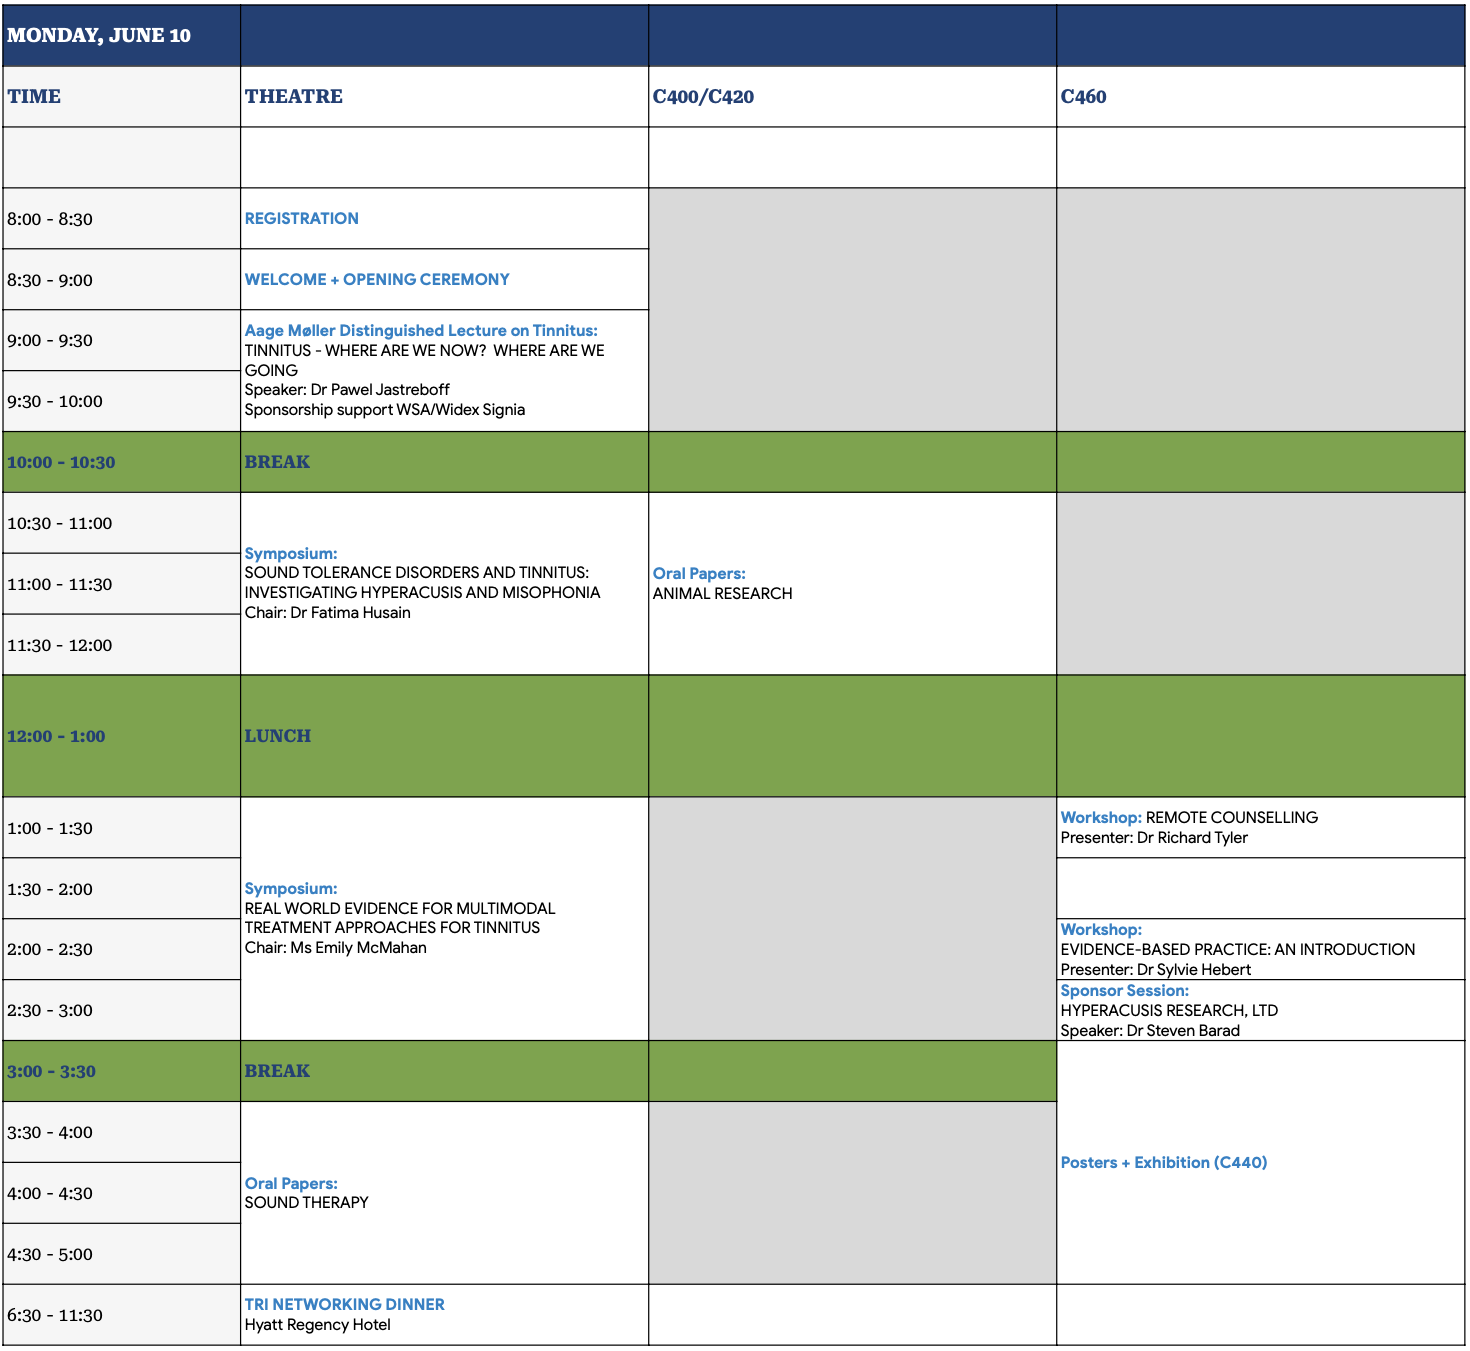
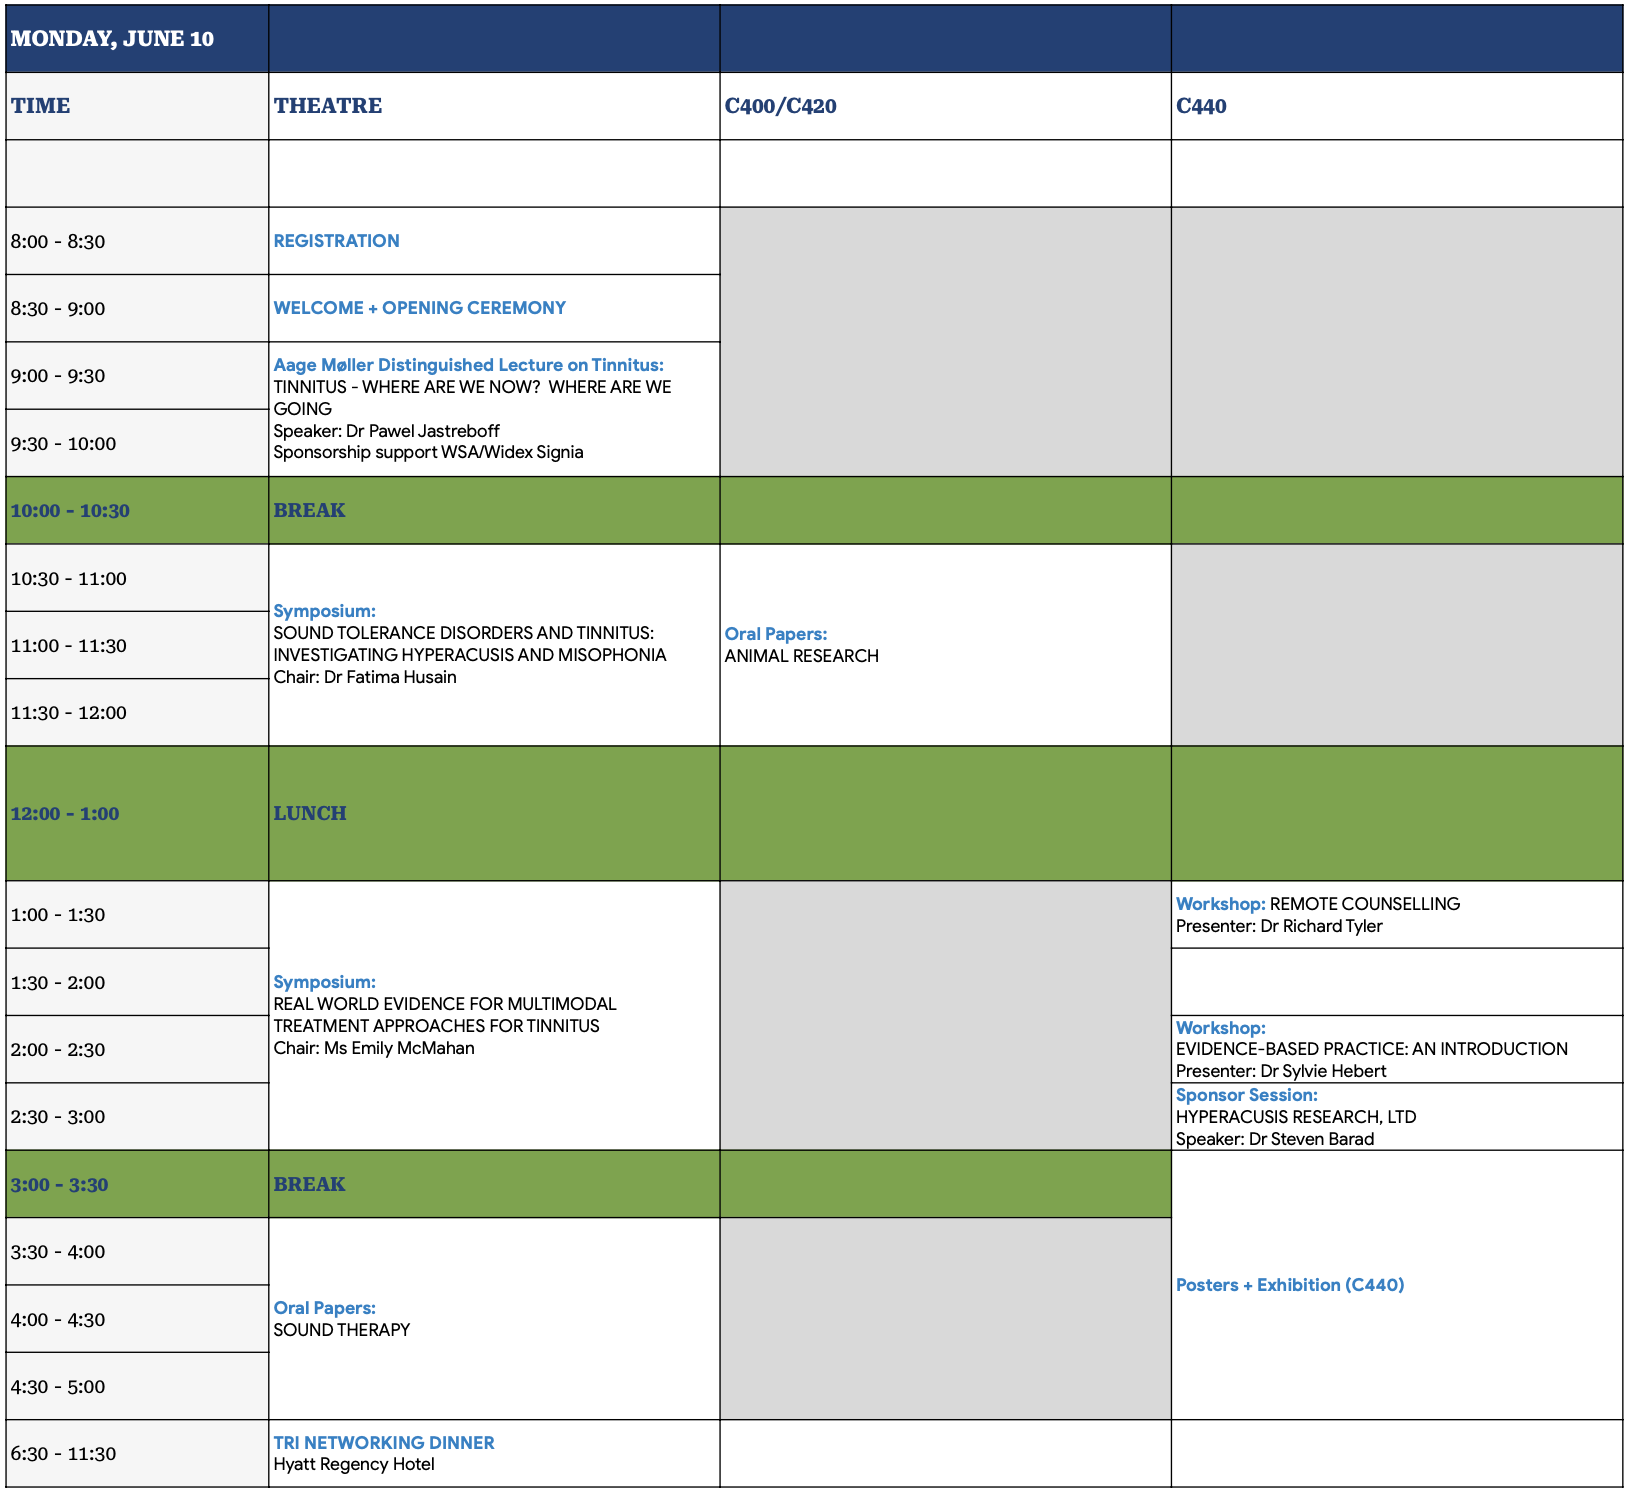
April 28th 2024: - Changed schedules for 10th, 11th and 12th. - Added new presenters for 10th and 11th!

diff --git a/src/AbstractPages/MondayJune10th/MondayJune10thPosters.tsx b/src/AbstractPages/MondayJune10th/MondayJune10thPosters.tsx
@@ -12,40 +12,22 @@ const MondayJune10thPosters = () => {
             experience, for a certain duration, is a prerequisite for tinnitus 
           </li>
           <li>
-            Ho Yun Lee, Seung-Ho Shin, Oak-Sung Choo, Jae Yong Byun, Jae Ho
-            Chung, Analysis of Loudness Discomfort Level Tests in Tinnitus
-            Patients
+            Ho Yun Lee, Seung-Ho Shin, Exploring the Origins of Decreased Sound
+            Tolerance in Tinnitus Patients
           </li>
           <li>
-            Han Lv, Qian Chen, Zuozhen Zhang, Zhaodi Wang, Shusheng Gong,
-            Junzhong Ji, Zhenchang Wang, Jinduo Liu, Functional-guided
-            reinforcement learning effective connectivity indicates
-            effectiveness of sound therapy in tinnitus patients
+            Sang Hoon Kim, Association between tinnitus and inflammatory bowel
+            disease: A national cohort study 
           </li>
           <li>
-            Dave Korotkov, Tinnitus Distress and the Steeling/Sensitization
-            Hypotheses: A Secondary
+            Jiwon Kwak, Soo Jeong Choi, Jiwon Chang, Gi Jung Im, Euyhyun Park,
+            Is Zinc Deficiency a Risk Factor for Tinnitus? : An Analysis from
+            Chronic Idiopathic Tinnitus Patients with Normal Hearing
           </li>
           <li>
-            Andréia Aparecida de Azevedo, Ricardo Rodrigues Figueiredo, Eliana
-            Ferreira Vilela, Jeanne Oiticica, correlation between tinnitus
-            severity and the big five personality traits
-          </li>
-          <li>
-            Min Young Kwak, Yong Tae Cho, Yong-Hwi An, Hyun Joon Shim, Relation
-            of Sound Level Tolerance to Tinnitus in Human: A Comparative
-            Analysis of Unilateral, Bilateral, and Control Groups
-          </li>
-          <li>
-            Cosima F. Lukas, Paul Wilknitz, Prof. Dr. Orlando Guntinas-Lichius,
-            Dr. Daniela Ivansic, Prof. Dr. ChristianDobel, Prof. Dr. Manuela
-            Nowotny, Occupational noise exposure: Early audiological and
-            physiological signs of noise- induced hearing loss and mental health
-          </li>
-          <li>
-            Lieber Po-Hung Li, Cheng-Ta Li, Jen-Chuen Hsieh, Steady-state
-            auditory evoked fields reflect long-term effects of repetitive
-            transcranial magnetic stimulation in tinnitus
+            Jae Sang Han, Minho Lee, Hyeon-Chun Park, So Young Park, Yeun-Jun
+            Chung, Shi Nae Park, Identification of SNPs Associated with Chronic
+            Sensorineural Tinnitus in the Korean Population
           </li>
           <li>
             Sneha Uttakalika 1 , Manya Fangaria , Ashwini Tidole 2 ,
@@ -53,10 +35,31 @@ const MondayJune10thPosters = () => {
             somatosensory tinnitus in individuals with tinnitus
           </li>
           <li>
-            Luciana Lozza de Moraes Marchiori, Licia Sayuri Tanaka, Daiane de
-            Almeida Soares Ciquinato, Glória de Moraes Marchiori, Braulio
-            Henrique Magnani Branco, Analysis between subjective sleep quality
-            and level of intensity of the tinnitus in people post COVID-19
+            Sneha Uttakalika, Diya ES Dinesh, Abhishek Jain, Kajal Bhatiwal,
+            Suman Penwal, Prevalence of hyperacusis and misophonia among
+            individuals with tinnitus
+          </li>
+          <li>
+            June Choi, Hong Jin Kim, Ye Hwan Lee, Young Han Chung, Kang Hyeon
+            Lim, Sang Yeop Kim, Yong Jun Jeong, Analysis of auditory brain stem
+            response and otoacoustic emission in unilateral tinnitus patients
+            with normal hearing
+          </li>
+          <li>
+            Fournier, P., Valentin, O., Z., Walsh, Z., Zendel, B.R. &amp;
+            Lehmann, A., Association between cannabis and tinnitus: could loud
+            music listening under cannabis influence be the missing link?
+          </li>
+          <li>
+            Cosima F. Lukas, Paul Wilknitz, Prof. Dr. Orlando Guntinas-Lichius,
+            Dr. Daniela Ivansic, Prof. Dr. Christian Dobel, Prof. Dr. Manuela
+            Nowotny, Occupational noise exposure: Early audiological and
+            physiological signs of noise- induced hearing loss and mental health
+          </li>
+          <li>
+            Zahra Jafari, David Baguley, Bryan E. Kolb, and Majid H. Mohajeran,
+            A systematic review and meta-analysis of extended high-frequency
+            hearing thresholds in tinnitus with a normal audiogram
           </li>
           <li>
             Kritika Nayyar, Sweety Chauhan, Neha Surkund, Swaham Mohanty, Kajal
@@ -65,13 +68,9 @@ const MondayJune10thPosters = () => {
             India
           </li>
           <li>
-            Jae Sang Han, Minho Lee, Hyeon-Chun Park, So Young Park, Yeun-Jun
-            Chung, Shi Nae ParL, Identification of SNPs Associated with Chronic
-            Sensorineural Tinnitus in the Korean Population
-          </li>
-          <li>
-            Kyu-Yup Lee, Da-Jung Jung,Sang-Heun Lee, Study on protective effect
-            of novel chemical compound against acquired hearing loss
+            Claudia Barros Coelho, Sodriane D&#39;Avila, Sabrina Magalhães,
+            Richard Tyler, Percutaneous Electroneurostimulation (PENS) as a
+            Novel Treatment for TTTS: Insights from a Focused Two-Case Study
           </li>
         </ul>
       </div>

diff --git a/src/AbstractPages/TuesdayJune11th/TuesdayPosters.tsx b/src/AbstractPages/TuesdayJune11th/TuesdayPosters.tsx
@@ -7,14 +7,24 @@ const TuesdayPosters = () => {
       <div className="mj10-list">
         <ul className="mj10-inner-list">
           <li>
-            Ho Yun Lee, Seung-Ho Shinm, Exploring the Origins of Decreased Sound
-            Tolerance in Tinnitus Patients
+            Ho Yun Lee, Seung-Ho Shin, Oak-Sung Choo, Jae Yong Byun, Jae Ho
+            Chung, Analysis of Loudness Discomfort Level Tests in Tinnitus
+            Patients
           </li>
           <li>
-            June Choi, Hong Jin Kim, Ye Hwan Lee, Young Han Chung, Kang Hyeon
-            Lim, Sang Yeop Kim, Yong Jun Jeong, Analysis of auditory brain stem
-            response and otoacoustic emission in unilateral tinnitus patients
-            with normal hearing
+            Han Lv, Qian Chen, Zuozhen Zhang, Zhaodi Wang, Shusheng Gong,
+            Junzhong Ji, Zhenchang Wang, Jinduo Liu, Functional-guided
+            reinforcement learning effective connectivity indicates
+            effectiveness of sound therapy in tinnitus patients
+          </li>
+          <li>
+            Dave Korotkov, Tinnitus Distress and the Steeling/Sensitization
+            Hypotheses: A Secondary
+          </li>
+          <li>
+            Andréia Aparecida de Azevedo, Ricardo Rodrigues Figueiredo, Eliana
+            Ferreira Vilela, Jeanne Oiticica, correlation between tinnitus
+            severity and the big five personality traits
           </li>
           <li>
             Sung Il Cho, Mohammad Mokhatrish, Wonyong Baek, Gi-Sung Nam,
@@ -22,14 +32,14 @@ const TuesdayPosters = () => {
             sensorineural hearing loss and acute tinnitus
           </li>
           <li>
+            Min Young Kwak, Yong Tae Cho, Yong-Hwi An, Hyun Joon Shim, Relation
+            of Sound Level Tolerance to Tinnitus in Human: A Comparative
+            Analysis of Unilateral, Bilateral, and Control Groups
+          </li>
+          <li>
             Bourez, P.H. Vallet, Guillaume, T., Fournier, P., Improving
             audiology student training by clinical simulation of tinnitus: a
             glimpse of tinnitus lived experience
-          </li>
-          <li>
-            Fournier, P., Lessard-Dostie, H., Bigras, J., McDonald, T., Noreña,
-            A.J., Lagacé, J., Hyperacusis and associated symptoms among
-            conference interpreters
           </li>
           <li>
             Denise Fuchten, Kelly K.S. Assouly, Inge Stegeman, Adriana L. Smit,
@@ -37,13 +47,12 @@ const TuesdayPosters = () => {
             depression questionnaires
           </li>
           <li>
-            Eun Bit Bae1, 2* - Low hearing frequency affecting hearing device
-            use
+            Eun Bit Bae, Low hearing frequency affecting hearing device use
           </li>
           <li>
-            Sneha Uttakalika, Diya ES Dinesh, Abhishek Jain, Kajal Bhatiwal,
-            Suman Penwal, Prevalence of hyperacusis and misophonia among
-            individuals with tinnitus
+            Lieber Po-Hung Li, Cheng-Ta Li, Jen-Chuen Hsieh, Steady-state
+            auditory evoked fields reflect long-term effects of repetitive
+            transcranial magnetic stimulation in tinnitus
           </li>
           <li>
             Glória de Moraes Marchiori, Licia Sayuri Tanaka, Victor Augusto
@@ -52,23 +61,24 @@ const TuesdayPosters = () => {
             symptoms among people post COVID-19
           </li>
           <li>
-            Zahra Jafari, David Baguley, Bryan E. Kolb, and Majid H. Mohajeran,
-            A systematic review and meta-analysis of extended high-frequency
-            hearing thresholds in tinnitus with a normal audiogram
-          </li>
-          <li>
-            Jiwon Kwak, Soo Jeong Choi, Jiwon Chang, Gi Jung Im, Euyhyun Park,
-            Is Zinc Deficiency a Risk Factor for Tinnitus?: An Analysis from
-            Chronic Idiopathic Tinnitus Patients with Normal Hearing
-          </li>
-          <li>
-            Sang Hoon Kim, Association between tinnitus and inflammatory bowel
-            disease: A national cohort study
+            Luciana Lozza de Moraes Marchiori, Licia Sayuri Tanaka, Daiane de
+            Almeida Soares Ciquinato, Glória de Moraes Marchiori, Braulio
+            Henrique Magnani Branco, Analysis between subjective sleep quality
+            and level of intensity of the tinnitus in people post COVID-19
           </li>
           <li>
             Nour Alsabbagh and Phillip E. Gander, The sleeping brain of
             tinnitus: A review of neural and behavioural correlates of sleep in
-            phantom sound perception
+            phantom sound perception.
+          </li>
+          <li>
+            Shi Nae Park, Min Chae Jeon, Chan Mee Lee, Jae Sang Han, Jae Hyng
+            Seo, Clinical Management of Myoclonic Tinnitus for A Cure: From
+            Botox Injection to Surgery
+          </li>
+          <li>
+            Kyu-Yup Lee, Da-Jung Jung,Sang-Heun Lee, Study on protective effect
+            of novel chemical compound against acquired hearing loss
           </li>
         </ul>
       </div>

diff --git a/src/Conference Program/ConferenceDropDownComponents/June12.tsx b/src/Conference Program/ConferenceDropDownComponents/June12.tsx
@@ -80,9 +80,9 @@ const June12 = () => {
       <AbstractDropDown
         title={"MISOPHONIA AND TINNITUS"}
         date={"WEDNESDAY, JUNE 12th"}
-        time={"09:30 - 10:00"}
+        time={"09:00 - 09:30"}
         type={"Workshop:"}
-        location={"(C460)"}
+        location={"(C440)"}
         Component={WednesdayMisophonia}
       />
 
@@ -91,7 +91,7 @@ const June12 = () => {
         date={"WEDNESDAY, JUNE 12th"}
         time={"09:30 - 10:00"}
         type={"Workshop:"}
-        location={"(C460)"}
+        location={"(C440)"}
         Component={June12thSuccessful}
       />
 
@@ -109,7 +109,7 @@ const June12 = () => {
         date={"WEDNESDAY, JUNE 12th"}
         time={"10:30 - 11:00"}
         type={"Sponsorship Session:"}
-        location={"(C460)"}
+        location={"(C440)"}
         Component={June12thOticon}
       />
 
@@ -118,7 +118,7 @@ const June12 = () => {
         date={"WEDNESDAY, JUNE 12th"}
         time={"11:00 - 11:30"}
         type={"Sponsorship Session:"}
-        location={"(C460)"}
+        location={"(C440)"}
         Component={June12thLenire}
       />
 
@@ -129,7 +129,7 @@ const June12 = () => {
         date={"WEDNESDAY, JUNE 12th"}
         time={"11:30 - 12:00"}
         type={"Sponsorship Session:"}
-        location={"(C460)"}
+        location={"(C440)"}
         Component={June12thATA}
       />
 

diff --git a/src/Conference Program/ConferenceDropDownComponents/June10.tsx b/src/Conference Program/ConferenceDropDownComponents/June10.tsx
@@ -95,7 +95,7 @@ const June10 = () => {
         date={"MONDAY, JUNE 10th"}
         time={"01:00 - 01:30"}
         type={"Workshop:"}
-        location={"(C460)"}
+        location={"(C440)"}
         Component={MondayJune10thRemote}
       />
 
@@ -104,7 +104,7 @@ const June10 = () => {
         date={"MONDAY, JUNE 10th"}
         time={"02:00 - 02:30"}
         type={"Workshop:"}
-        location={"(C460)"}
+        location={"(C440)"}
         Component={TuesdayJune11thEvidenceBased}
       />
 
@@ -113,7 +113,7 @@ const June10 = () => {
         date={"MONDAY, JUNE 10th"}
         time={"02:30 - 03:00"}
         type={"Sponsor Session:"}
-        location={"(C460)"}
+        location={"(C440)"}
         Component={MondayJune10thHyeracusis}
       />
 
@@ -129,7 +129,7 @@ const June10 = () => {
       <AbstractDropDown
         title={""}
         date={"MONDAY, JUNE 10th"}
-        time={"03:00 - 05:00 "}
+        time={"03:30 - 05:00 "}
         type={"Posters + Exhibition:"}
         location={"(POSTER HALL)"}
         Component={MondayJune10thPosters}

diff --git a/src/Conference Program/ConferenceDropDownComponents/June11.tsx b/src/Conference Program/ConferenceDropDownComponents/June11.tsx
@@ -72,7 +72,7 @@ const June11 = () => {
         date={"TUESDAY, JUNE 11th"}
         time={"09:00 - 10:00"}
         type={"Oral Papers:"}
-        location={"(THEATRE)"}
+        location={"(C400/C420)"}
         Component={TuesdayBioMarkers}
       />
       <AbstractDropDown
@@ -122,9 +122,9 @@ const June11 = () => {
           "CONTRIBUTION OF MIDDLE EAR AND MULTIMODAL PLASTICITY TO TINNITUS AND HYPERACUSIS."
         }
         date={"TUESDAY, JUNE 11th"}
-        time={"02:00 - 03:00"}
+        time={"02:30 - 03:00"}
         type={"Workshop:"}
-        location={"(C460)"}
+        location={"(C440)"}
         Component={TuesdayContribution}
       />
       <AbstractDropDown
@@ -138,7 +138,7 @@ const June11 = () => {
       <AbstractDropDown
         title={""}
         date={"TUESDAY, JUNE 11th"}
-        time={"03:00 - 05:00"}
+        time={"03:30 - 05:00"}
         type={"Posters + Exhibition:"}
         location={"(POSTER HALL)"}
         Component={TuesdayPosters}

diff --git a/src/AbstractPages/MondayJune10th/MondayJune10th.tsx b/src/AbstractPages/MondayJune10th/MondayJune10th.tsx
@@ -33,7 +33,11 @@ const MondayJune10th = () => {
             neural mechanisms of noise-induced tinnitus and hyperacusis studied
             in guinea pigs (voir courriel)
           </li>
-          <li>Zach Rosenthal, Duke University, United States</li>
+          <li>
+            Fournier, P., Lessard-Dostie, H., Bigras, J., McDonald, T., Noreña,
+            A.J., Lagacé, J., Hyperacusis and associated symptoms among
+            conference interpreters
+          </li>
         </ol>
       </div>
 

diff --git a/src/AbstractPages/TuesdayJune11th/TuesdayPulsatile.tsx b/src/AbstractPages/TuesdayJune11th/TuesdayPulsatile.tsx
@@ -29,11 +29,6 @@ const TuesdayPulsatile = () => {
             Dave Korotkov - Living with Pulsatile Tinnitus: A Self-Narrative
             Using McAdam’s Levels of Personality Model
           </li>
-          <li>
-            Shi Nae Park, Min Chae Jeon, Chan Mee Lee, Jae Sang Han, Jae Hyng
-            Seo, Clinical Management of Myoclonic Tinnitus for A Cure: From
-            Botox Injection to Surgery
-          </li>
         </ul>
       </div>
     </div>

diff --git a/src/AbstractPages/TuesdayJune11th/TuesdayJune11thRound.tsx b/src/AbstractPages/TuesdayJune11th/TuesdayJune11thRound.tsx
@@ -6,7 +6,7 @@ const TuesdayJune11thRound = () => {
     <div>
       <div className="mj10-host">
         <Text>
-          <b>Moderator::</b> Dr Philippe Fournier
+          <b>Moderator:</b> Dr Philippe Fournier
         </Text>
       </div>
 
